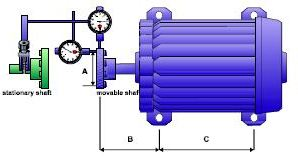
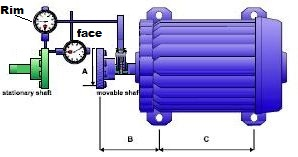
changed images
changed coupling images for mtbm

diff --git a/www/couplingAlignment.html b/www/couplingAlignment.html
@@ -61,7 +61,7 @@
 		</table>
 				
 			    <div style="">
-                    <img style="width: 286px; height: px" src="images/rimseven.JPG" />
+                    <img style="width: 286px; height: px" src="images/rim1.JPG" />
                 </div>
 				
 		<table summary="this table for measurements.">
@@ -93,7 +93,7 @@
 
 					
 				<div style="">
-                    <img style="width: 286px; height: px" src="images/rimfour.JPG" />
+                    <img style="width: 286px; height: px" src="images/rim4.JPG" />
                 </div>
 		<table summary="this table for movements up down.">
 		  <tbody>
@@ -107,7 +107,7 @@
 		</table>				
 				
 				<div style="">
-                    <img style="width: 286px; height: px" src="images/rimsix.JPG" />
+                    <img style="width: 286px; height: px" src="images/rim6.JPG" />
                 </div>
 		<table summary="this table for movements up down.">
 		  <tbody>

diff --git a/www/index.html b/www/index.html
@@ -41,6 +41,16 @@
                             Reverse Dial
                         </a>
                     </li>
+                    <li>
+                        <a href="http://unionxtreme.com" data-transition="slide" rel="external">
+                            UnionXtreme
+                        </a>
+                    </li>
+                    <li>
+                        <a href="https://play.google.com/store/apps/developer?id=millwrighter" data-transition="slide" rel="external">
+                            More Apps
+                        </a>
+                    </li>					
                 </ul>
 				
             </div>
